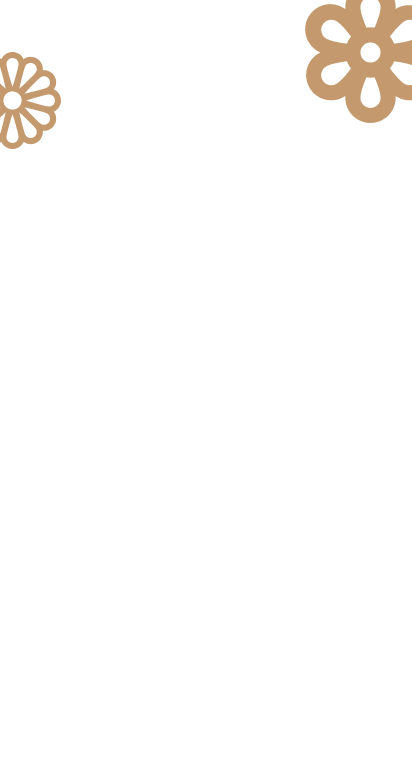
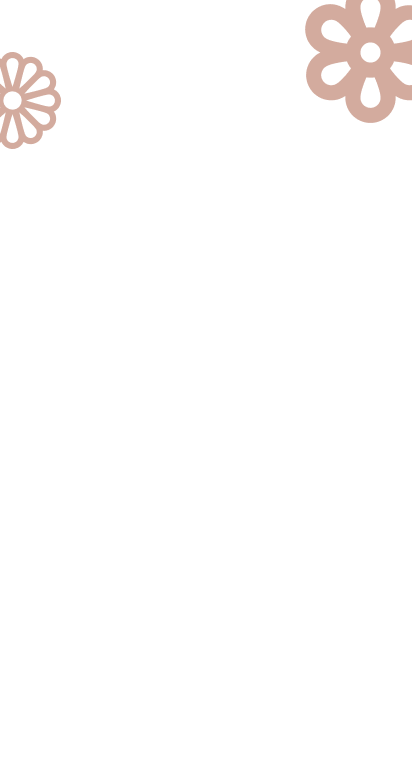
Change colors

Changed region(s): [[0.7282, 0.0, 1.0, 0.1548], [0.0, 0.0619, 0.1456, 0.2168]]

diff --git a/app/components/index-page/gallery-section/Gallery.tsx b/app/components/index-page/gallery-section/Gallery.tsx
@@ -1,18 +1,26 @@
-import { AspectRatio, Box, Flex, IconButton, Image } from "@chakra-ui/react";
+import {
+  AspectRatio,
+  Box,
+  Flex,
+  IconButton,
+  Image,
+  Text,
+} from "@chakra-ui/react";
 import { useContext, useState } from "react";
 import { MdOutlineClose } from "react-icons/md";
 import BaseHeading from "~/components/shared/BaseHeadings";
 import SafeArea from "~/components/shared/SafeArea";
 import Section from "~/components/shared/Section";
-import { PhotoGalleryContext } from "~/context/photo-gallery-context";
+import useCurrentPhotoZoomed from "~/context/photo-gallery-context/hooks/useCurrentPhotoZoomed";
+import useIsPhotoZoomed from "~/context/photo-gallery-context/hooks/useIsPhotoZoomed";
 
 import HorizontalScroll from "../../shared/HorizontalScroll";
 
 const MAX_PHOTOS_AVALIABLE = 31;
 
 export default function Gallery() {
-  const { isPhotoZoomed, currentPhotoIdxZoomed } =
-    useContext(PhotoGalleryContext);
+  const { isPhotoZoomed } = useIsPhotoZoomed();
+  const { currentPhotoIdxZoomed } = useCurrentPhotoZoomed();
 
   return (
     <>
@@ -24,11 +32,16 @@ export default function Gallery() {
                 <BaseHeading
                   as="h2"
                   fontSize="38px"
-                  fontWeight="700"
+                  fontWeight="400"
                   mb=".5rem"
+                  letterSpacing="-1px"
                 >
                   Galeria de fotos
                 </BaseHeading>
+                <Text fontSize="16px" lineHeight={1.1}>
+                  Momentos de lembrança, uma história <br />
+                  de amor e serenidade.
+                </Text>
               </Box>
               <Box>
                 <PhotoGallery min={0} max={16} transform="translateX(-20px)" />
@@ -54,8 +67,8 @@ function PhotoGallery({
   max: number;
   [x: string]: any;
 }) {
-  const { setIsPhotoZoomed, setCurrentPhotoIdxZoomed } =
-    useContext(PhotoGalleryContext);
+  const { setIsPhotoZoomed } = useIsPhotoZoomed();
+  const { setCurrentPhotoIdxZoomed } = useCurrentPhotoZoomed();
 
   const photos = Array.from({ length: MAX_PHOTOS_AVALIABLE });
 
@@ -65,13 +78,7 @@ function PhotoGallery({
   }
 
   return (
-    <HorizontalScroll
-      gap={2}
-      columnSize="36%"
-      h="270px"
-      bg="text.500"
-      paddingBlock="0.5rem"
-    >
+    <HorizontalScroll gap={2} columnSize="36%" h="270px" paddingBlock="0.5rem">
       {photos.map((_, i) => {
         if (i >= min && i <= max) {
           return (
@@ -80,6 +87,7 @@ function PhotoGallery({
               ratio={1}
               onClick={() => onPhotoZoomed(i)}
               {...props}
+              boxShadow="lg"
             >
               <Image
                 src={`/images/gallery/gustavo_kelly_gallery_${i}.jpeg`}
@@ -97,8 +105,8 @@ function PhotoGallery({
 }
 
 function PhotoZoomed({ currentPhotoIdx }: { currentPhotoIdx: number | null }) {
-  const { setIsPhotoZoomed, setCurrentPhotoIdxZoomed } =
-    useContext(PhotoGalleryContext);
+  const { setIsPhotoZoomed } = useIsPhotoZoomed();
+  const { setCurrentPhotoIdxZoomed } = useCurrentPhotoZoomed();
 
   function onClosePhotoZoomed() {
     setIsPhotoZoomed(false);
@@ -110,11 +118,17 @@ function PhotoZoomed({ currentPhotoIdx }: { currentPhotoIdx: number | null }) {
       <Flex
         justify="center"
         align="center"
-        h="100vh"
+        h="100%"
         w="100vw"
         position="relative"
       >
-        <AspectRatio key={currentPhotoIdx} ratio={9 / 16} h="100%" w="100%">
+        <AspectRatio
+          key={currentPhotoIdx}
+          ratio={9 / 16}
+          h="100%"
+          w="100%"
+          onClick={onClosePhotoZoomed}
+        >
           <Image
             src={`/images/gallery/gustavo_kelly_gallery_${currentPhotoIdx}.jpeg`}
             alt={`Gustavo e Kelly foto ${currentPhotoIdx}`}

diff --git a/app/components/shared/WhatsAppWidget.tsx b/app/components/shared/WhatsAppWidget.tsx
@@ -1,23 +1,29 @@
 import { IconButton, Link } from "@chakra-ui/react";
-
 import { BsWhatsapp } from "react-icons/bs";
+import useIsPhotoZoomed from "~/context/photo-gallery-context/hooks/useIsPhotoZoomed";
 
 export default function WhatsAppWidget() {
+  const { isPhotoZoomed } = useIsPhotoZoomed();
+
   const whastappLink =
     "https://api.whatsapp.com/send?phone=554691201777&text=Ol%C3%A0%20Gustavo%2C%20";
 
   return (
-    <Link href={whastappLink}>
-      <IconButton
-        aria-label="Whatsapp"
-        icon={<BsWhatsapp color="white" />}
-        position="fixed"
-        bottom="2rem"
-        right="2rem"
-        borderRadius={50}
-        bg="green.500"
-        boxShadow={"lg"}
-      />
-    </Link>
+    <>
+      {!isPhotoZoomed && (
+        <Link href={whastappLink}>
+          <IconButton
+            aria-label="Whatsapp"
+            icon={<BsWhatsapp color="white" />}
+            position="fixed"
+            bottom="2rem"
+            right="2rem"
+            borderRadius={50}
+            bg="green.500"
+            boxShadow={"lg"}
+          />
+        </Link>
+      )}
+    </>
   );
 }

diff --git a/app/routes/index.tsx b/app/routes/index.tsx
@@ -27,20 +27,22 @@ export default function Index() {
   return (
     <>
       <HistoryProvider>
-        <FullPageVerticallyScroll>
-          <NavigationProvider>
-            <NavigationMenu />
-            <Header />
-          </NavigationProvider>
-          <HeroSection />
-          <HistorySection />
-          <PhotoGalleryProvider>
+        <PhotoGalleryProvider>
+          <FullPageVerticallyScroll>
+            <NavigationProvider>
+              <NavigationMenu />
+              <Header />
+            </NavigationProvider>
+            <HeroSection />
+            <HistorySection />
+
             <Gallery />
-          </PhotoGalleryProvider>
-          <PlaceSection />
-          <InvitationSection />
-        </FullPageVerticallyScroll>
-        <WhatsAppWidget />
+
+            <PlaceSection />
+            <InvitationSection />
+          </FullPageVerticallyScroll>
+          <WhatsAppWidget />
+        </PhotoGalleryProvider>
       </HistoryProvider>
     </>
   );

diff --git a/app/components/index-page/place-section/PlaceSection.tsx b/app/components/index-page/place-section/PlaceSection.tsx
@@ -23,12 +23,18 @@ export default function PlaceSection() {
       <SafeArea p={75}>
         <Center h="100%">
           <Flex direction="column" gap="1rem">
-            <BaseHeading as="h2" fontSize="38px" fontWeight="700" mb=".5rem">
+            <BaseHeading
+              as="h2"
+              fontSize="38px"
+              fontWeight="400"
+              mb=".5rem"
+              letterSpacing="-1px"
+            >
               Almoçamos <br />
               juntos
             </BaseHeading>
             <Box>
-              <Text fontSize="20px" fontWeight="600" color="primary.500">
+              <Text fontSize="20px" fontWeight="600" color="text.500">
                 Chacara Zanin
               </Text>
               <Text fontSize="16px" lineHeight={1.1}>

diff --git a/app/components/index-page/hystory-section/data/chapters.ts b/app/components/index-page/hystory-section/data/chapters.ts
@@ -68,7 +68,7 @@ export const chapters: Chapter[] = [
     type: "content",
     title: `O avião branco`,
     image: "history-content-chap3",
-    text: `O cavalo do bendito príncipe não era branco mas o avião que o acompanhou sim… Finalmente em Pato Branco, o estacionamento de ônibus (chegada com direito a), balões vermelhos, os corações pulando e batendo... Foi a primeira vez que nossos olhos se encontraram ao vivo.`,
+    text: `O cavalo do bendito príncipe não era branco mas o avião que o acompanhou sim… Finalmente em Pato Branco, chegada com direito a balões vermelhos, os corações pulando e batendo... Foi a primeira vez que nossos olhos se encontraram ao vivo.`,
   },
   {
     type: "intro",

diff --git a/app/components/invitation-page/invitation-section/index.tsx b/app/components/invitation-page/invitation-section/index.tsx
@@ -65,7 +65,7 @@ export default function InvitationFormSection({
                 type="submit"
                 isLoading={formState === "submitting"}
                 loadingText="Enviando..."
-                bg="primary.500"
+                bg="secondary.500"
                 disabled={formState === "success"}
               >
                 {formState === "success" ? "Enviado" : "Envia"}
@@ -115,7 +115,7 @@ function SuccessMessage({
 
 function FormHeader() {
   return (
-    <Flex direction="column" gap=".5rem">
+    <Flex direction="column" gap="1.5rem">
       <Center>
         <TextDecorated>Momentos mágicos</TextDecorated>
       </Center>

diff --git a/app/context/photo-gallery-context/hooks/useCurrentPhotoZoomed.ts b/app/context/photo-gallery-context/hooks/useCurrentPhotoZoomed.ts
@@ -1,0 +1,18 @@
+import { useContextSelector } from "use-context-selector";
+import { PhotoGalleryContext } from "..";
+
+export default function useCurrentPhotoZoomed() {
+  const currentPhotoIdxZoomed = useContextSelector(
+    PhotoGalleryContext,
+    (ctx) => ctx.currentPhotoIdxZoomed
+  );
+
+  const setCurrentPhotoIdxZoomed = useContextSelector(
+    PhotoGalleryContext,
+    (ctx) => ctx.setCurrentPhotoIdxZoomed
+  );
+  return {
+    currentPhotoIdxZoomed,
+    setCurrentPhotoIdxZoomed,
+  };
+}

diff --git a/app/context/photo-gallery-context/hooks/useIsPhotoZoomed.ts b/app/context/photo-gallery-context/hooks/useIsPhotoZoomed.ts
@@ -1,0 +1,18 @@
+import { useContextSelector } from "use-context-selector";
+import { PhotoGalleryContext } from "..";
+
+export default function useIsPhotoZoomed() {
+  const isPhotoZoomed = useContextSelector(
+    PhotoGalleryContext,
+    (ctx) => ctx.isPhotoZoomed
+  );
+
+  const setIsPhotoZoomed = useContextSelector(
+    PhotoGalleryContext,
+    (ctx) => ctx.setIsPhotoZoomed
+  );
+  return {
+    isPhotoZoomed,
+    setIsPhotoZoomed,
+  };
+}

diff --git a/app/components/index-page/hero-section/HeroHeadline.tsx b/app/components/index-page/hero-section/HeroHeadline.tsx
@@ -11,14 +11,14 @@ export default function HeroHeadline() {
           fontSize="80px"
           letterSpacing="-0.05em"
           textAlign="center"
-          fontWeight="700"
+          fontWeight="400"
         >
           È hora!
         </BaseHeading>
 
         <Text
           color="text.500"
-          fontSize="18px"
+          fontSize="16px"
           letterSpacing="0.125em"
           lineHeight="1"
           textAlign="center"

diff --git a/app/components/index-page/hero-section/HeroSection.tsx b/app/components/index-page/hero-section/HeroSection.tsx
@@ -8,9 +8,9 @@ import Section from "../../shared/Section";
 export default function HeroSection() {
   return (
     <>
-      <Section id="hero" bg="primary.500">
+      <Section id="hero" bg="gray.200">
         <SafeArea top={75}>
-          <HeroBackgroundPattern />
+          {/* <HeroBackgroundPattern /> */}
           <HeroEllipseLayer />
           <HeroImage />
         </SafeArea>

diff --git a/app/components/index-page/hystory-section/HistoryChapterContent.tsx b/app/components/index-page/hystory-section/HistoryChapterContent.tsx
@@ -58,7 +58,7 @@ function Overlay() {
       position="absolute"
       w="100%"
       h="100%"
-      background="linear-gradient(180deg, rgba(197, 189, 177, 0) 10.42%, rgba(197, 189, 177, 0.69) 34.9%, #C5BDB1 80%);"
+      background="linear-gradient(180deg, rgba(211, 171, 158, 0) 10.42%, rgba(211, 171, 158, 0.69) 34.9%, rgba(211, 171, 158, 1) 80%)"
     ></Box>
   );
 }

diff --git a/app/routes/invitation/response/thank-you.tsx b/app/routes/invitation/response/thank-you.tsx
@@ -28,7 +28,7 @@ export default function ThankYou() {
           Obrigado
         </BaseHeading>
         {guestName !== "" && (
-          <BaseHeading fontSize="32px" fontWeight="400" color="primary.500">
+          <BaseHeading fontSize="32px" fontWeight="400" color="text.500">
             {guestName}
           </BaseHeading>
         )}
